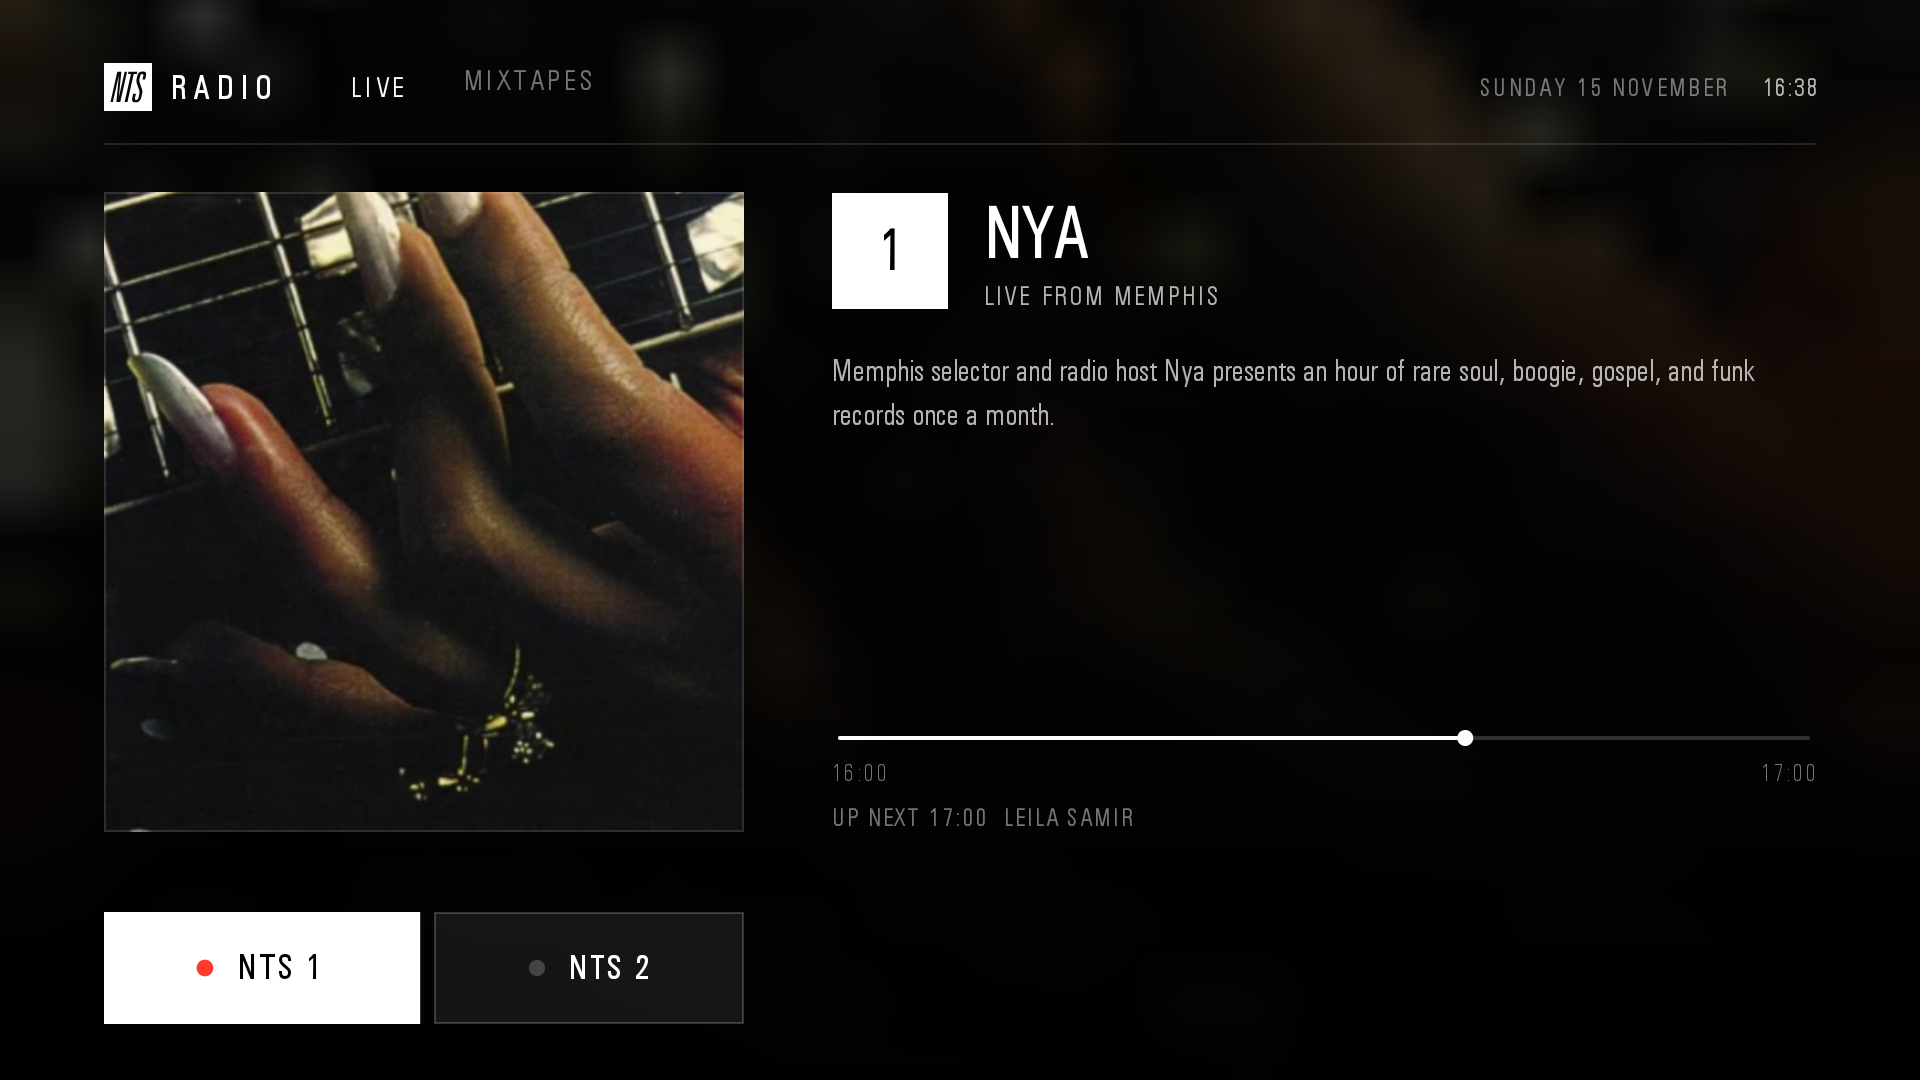
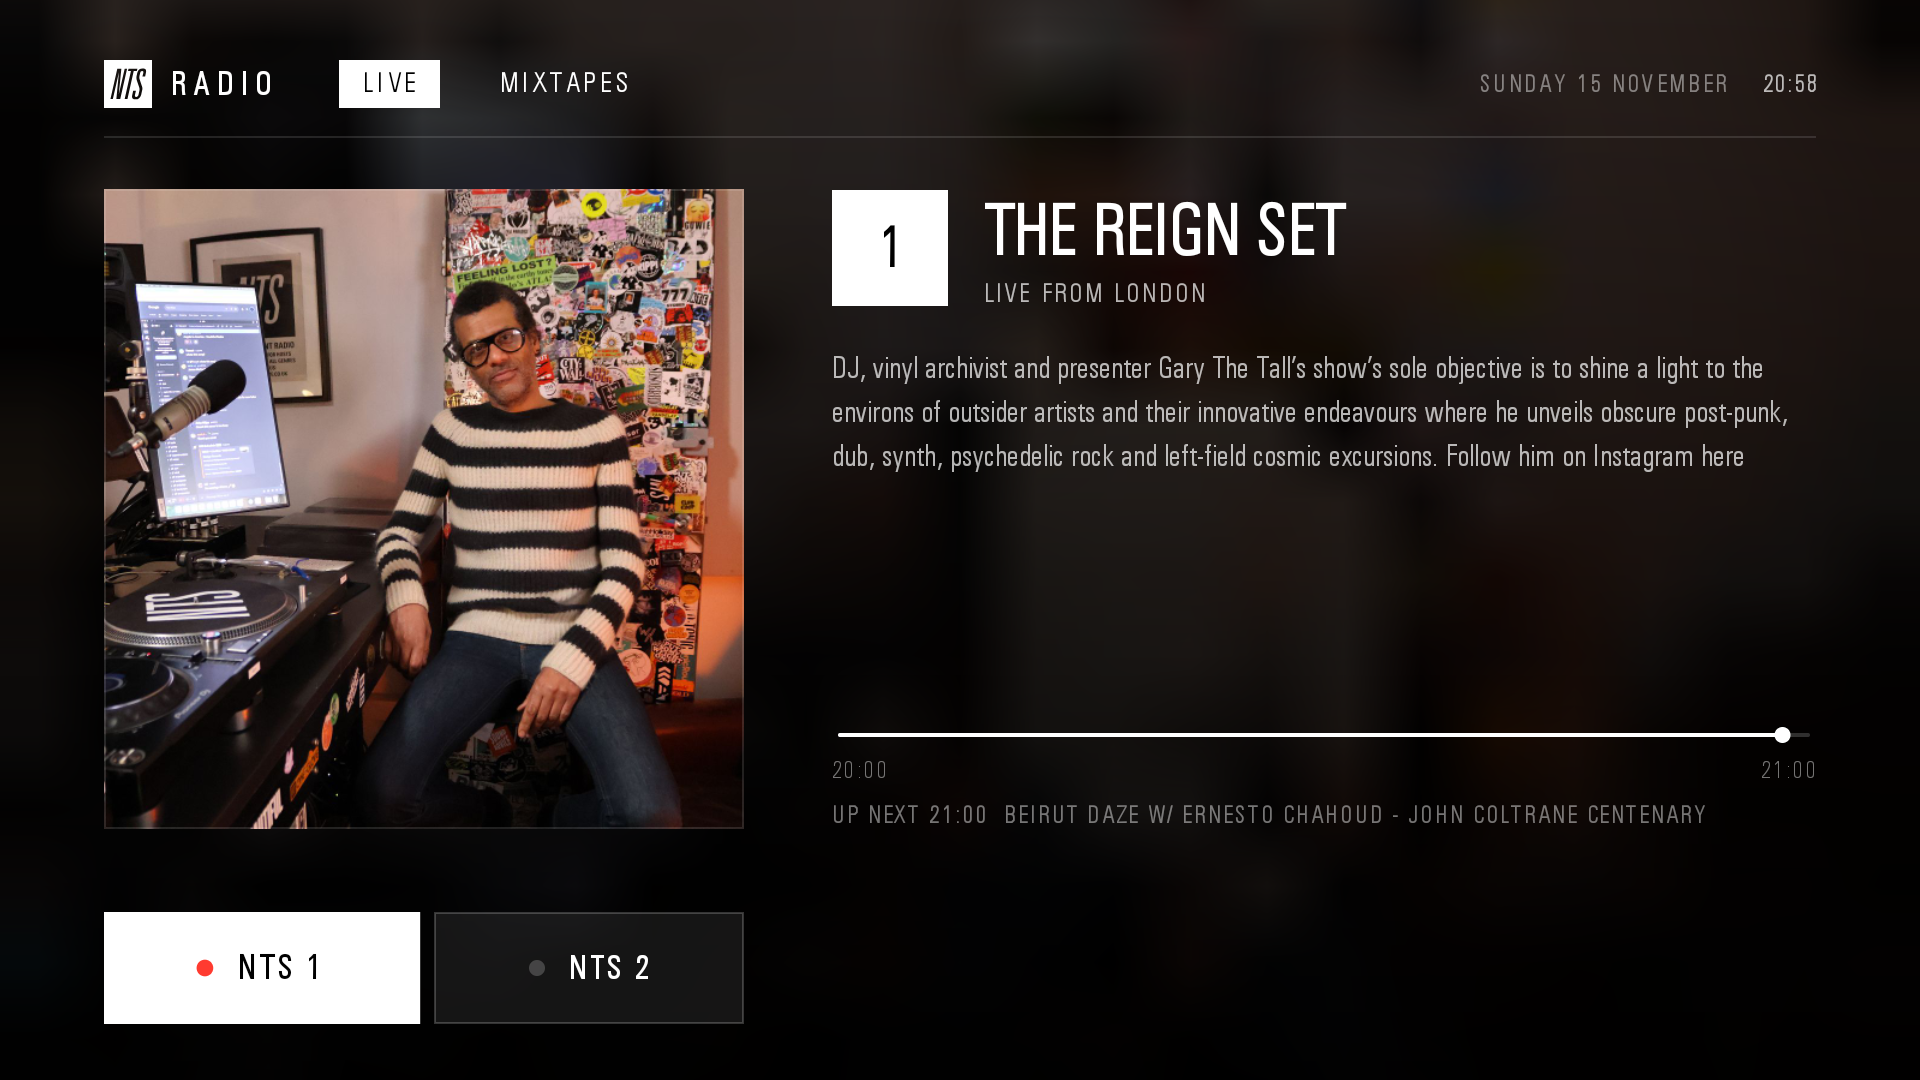
docs: refresh README screenshots from the v0.2 release build
- capture LIVE, Infinite Mixtapes grid and now-playing from the signed
  v0.2 release APK
- point the download link at the v0.2 release

diff --git a/README.md b/README.md
@@ -20,7 +20,7 @@
 ./gradlew :app:assembleDebug
 ```
 
-Min SDK 24, targets API 37. The signed release APK ships as `nts-radio-tv-v0.1.apk` in the [v0.1 release](../../releases/tag/v0.1).
+Min SDK 24, targets API 37. The signed release APK ships as `nts-radio-tv-v0.2.apk` in the [v0.2 release](../../releases/tag/v0.2).
 
 ---
 
